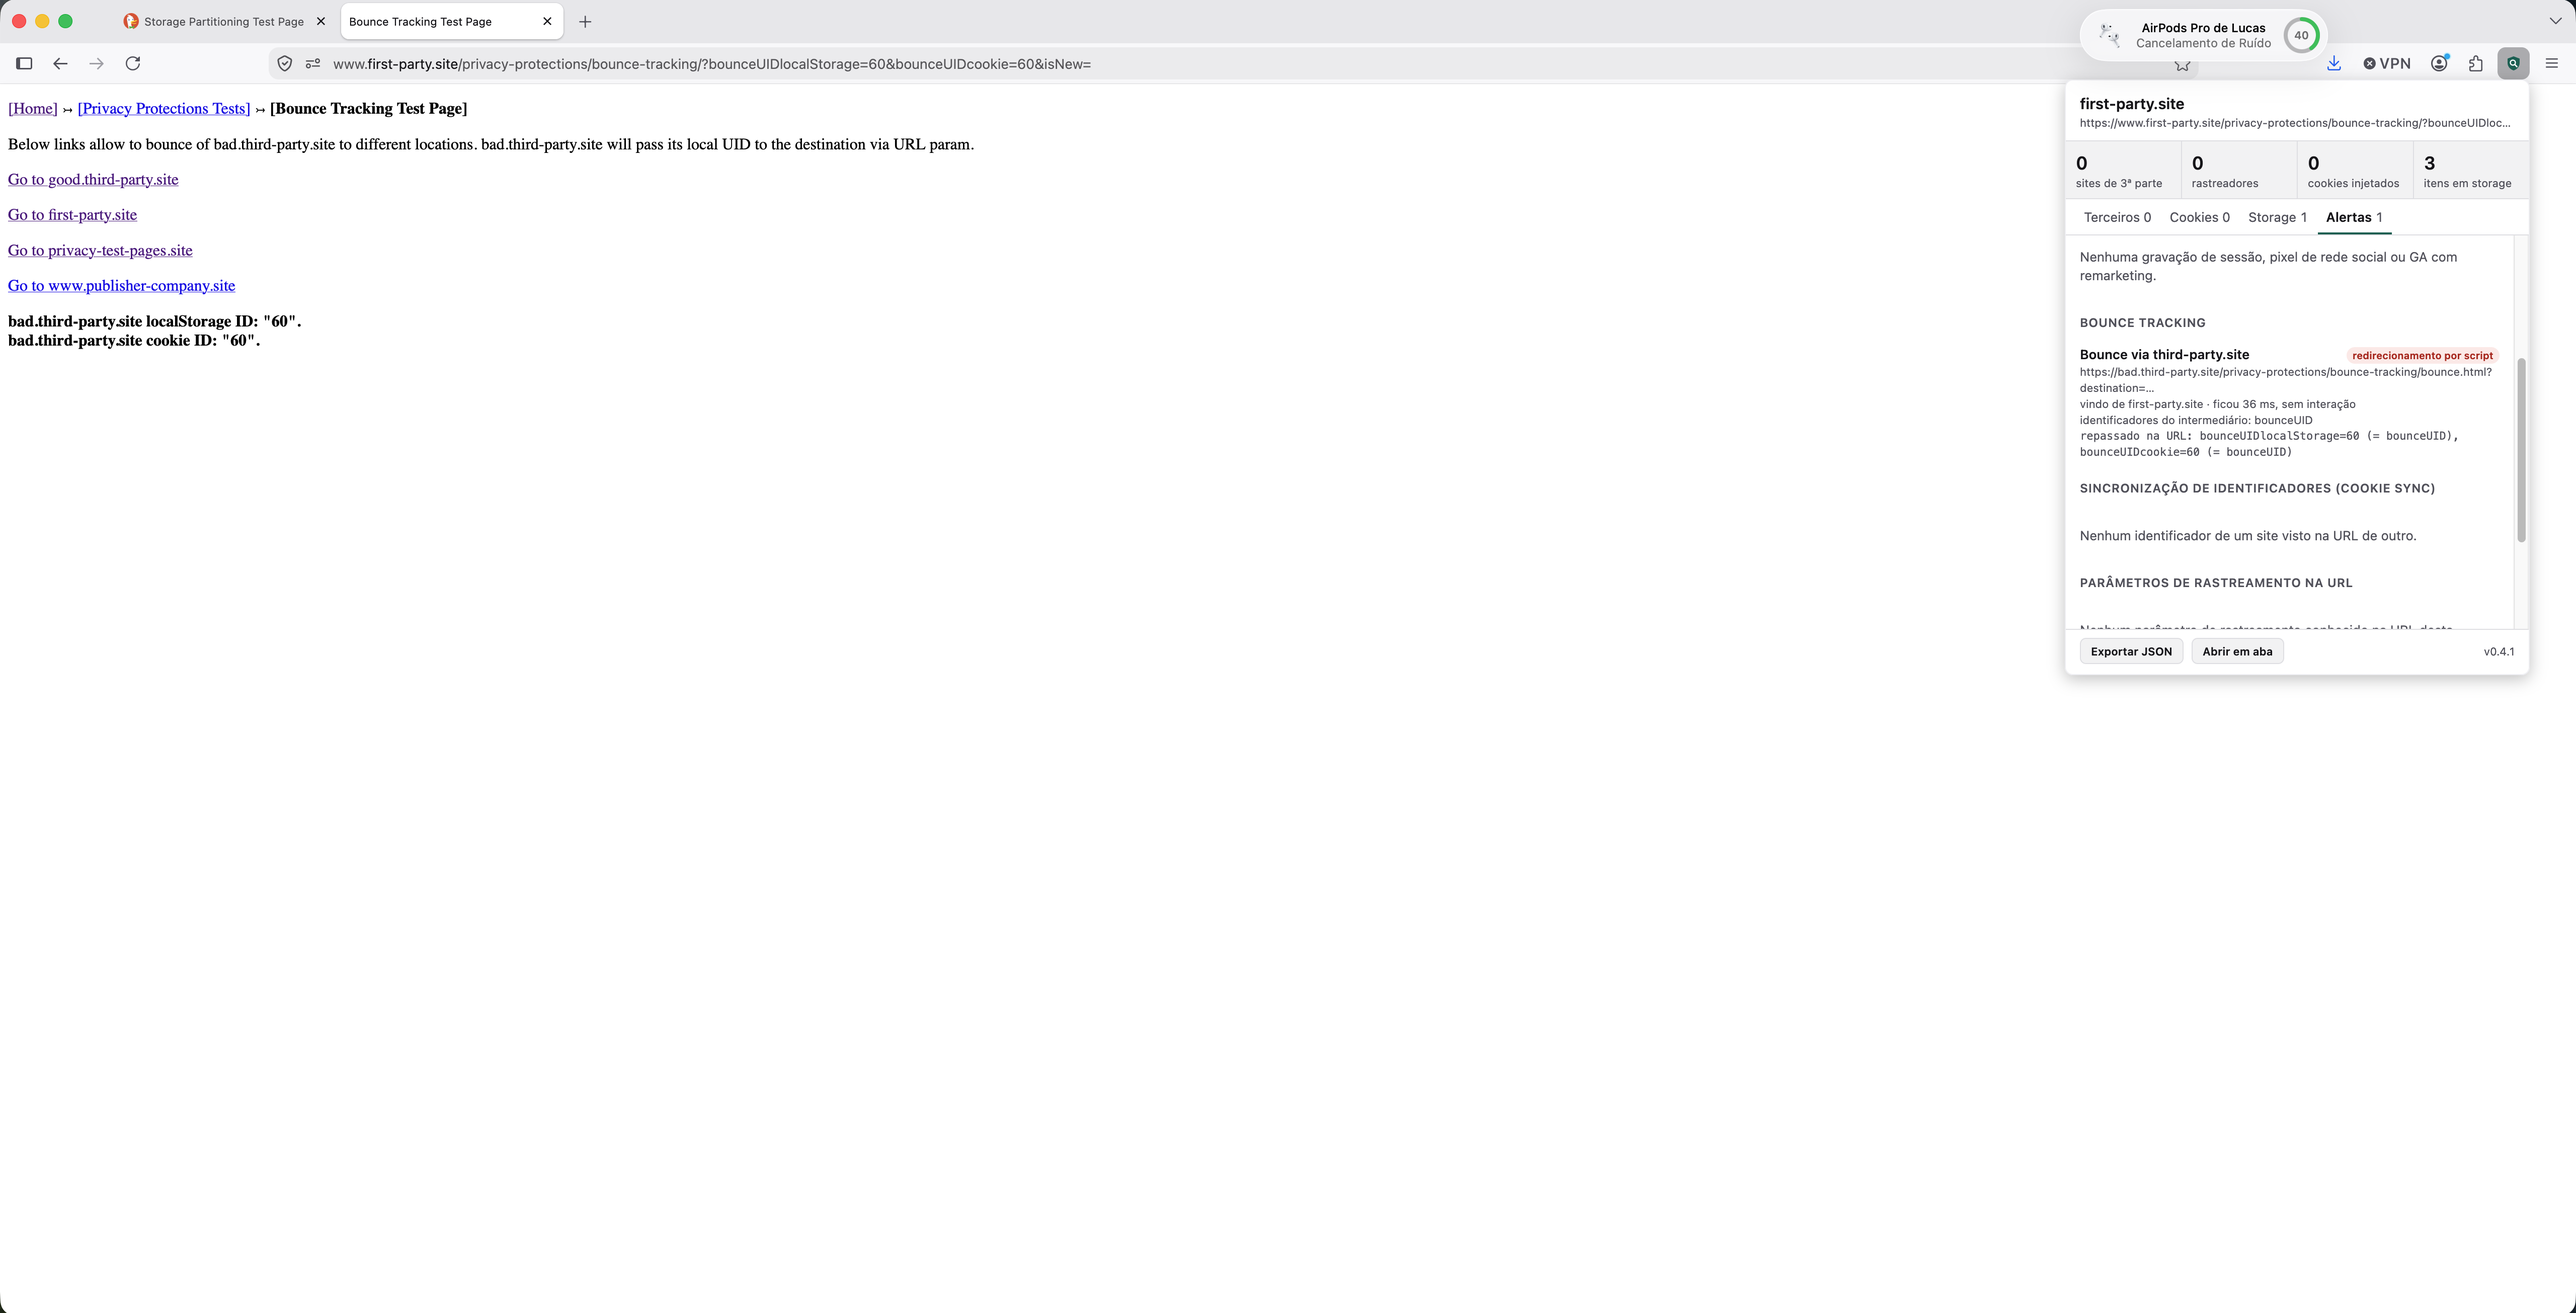
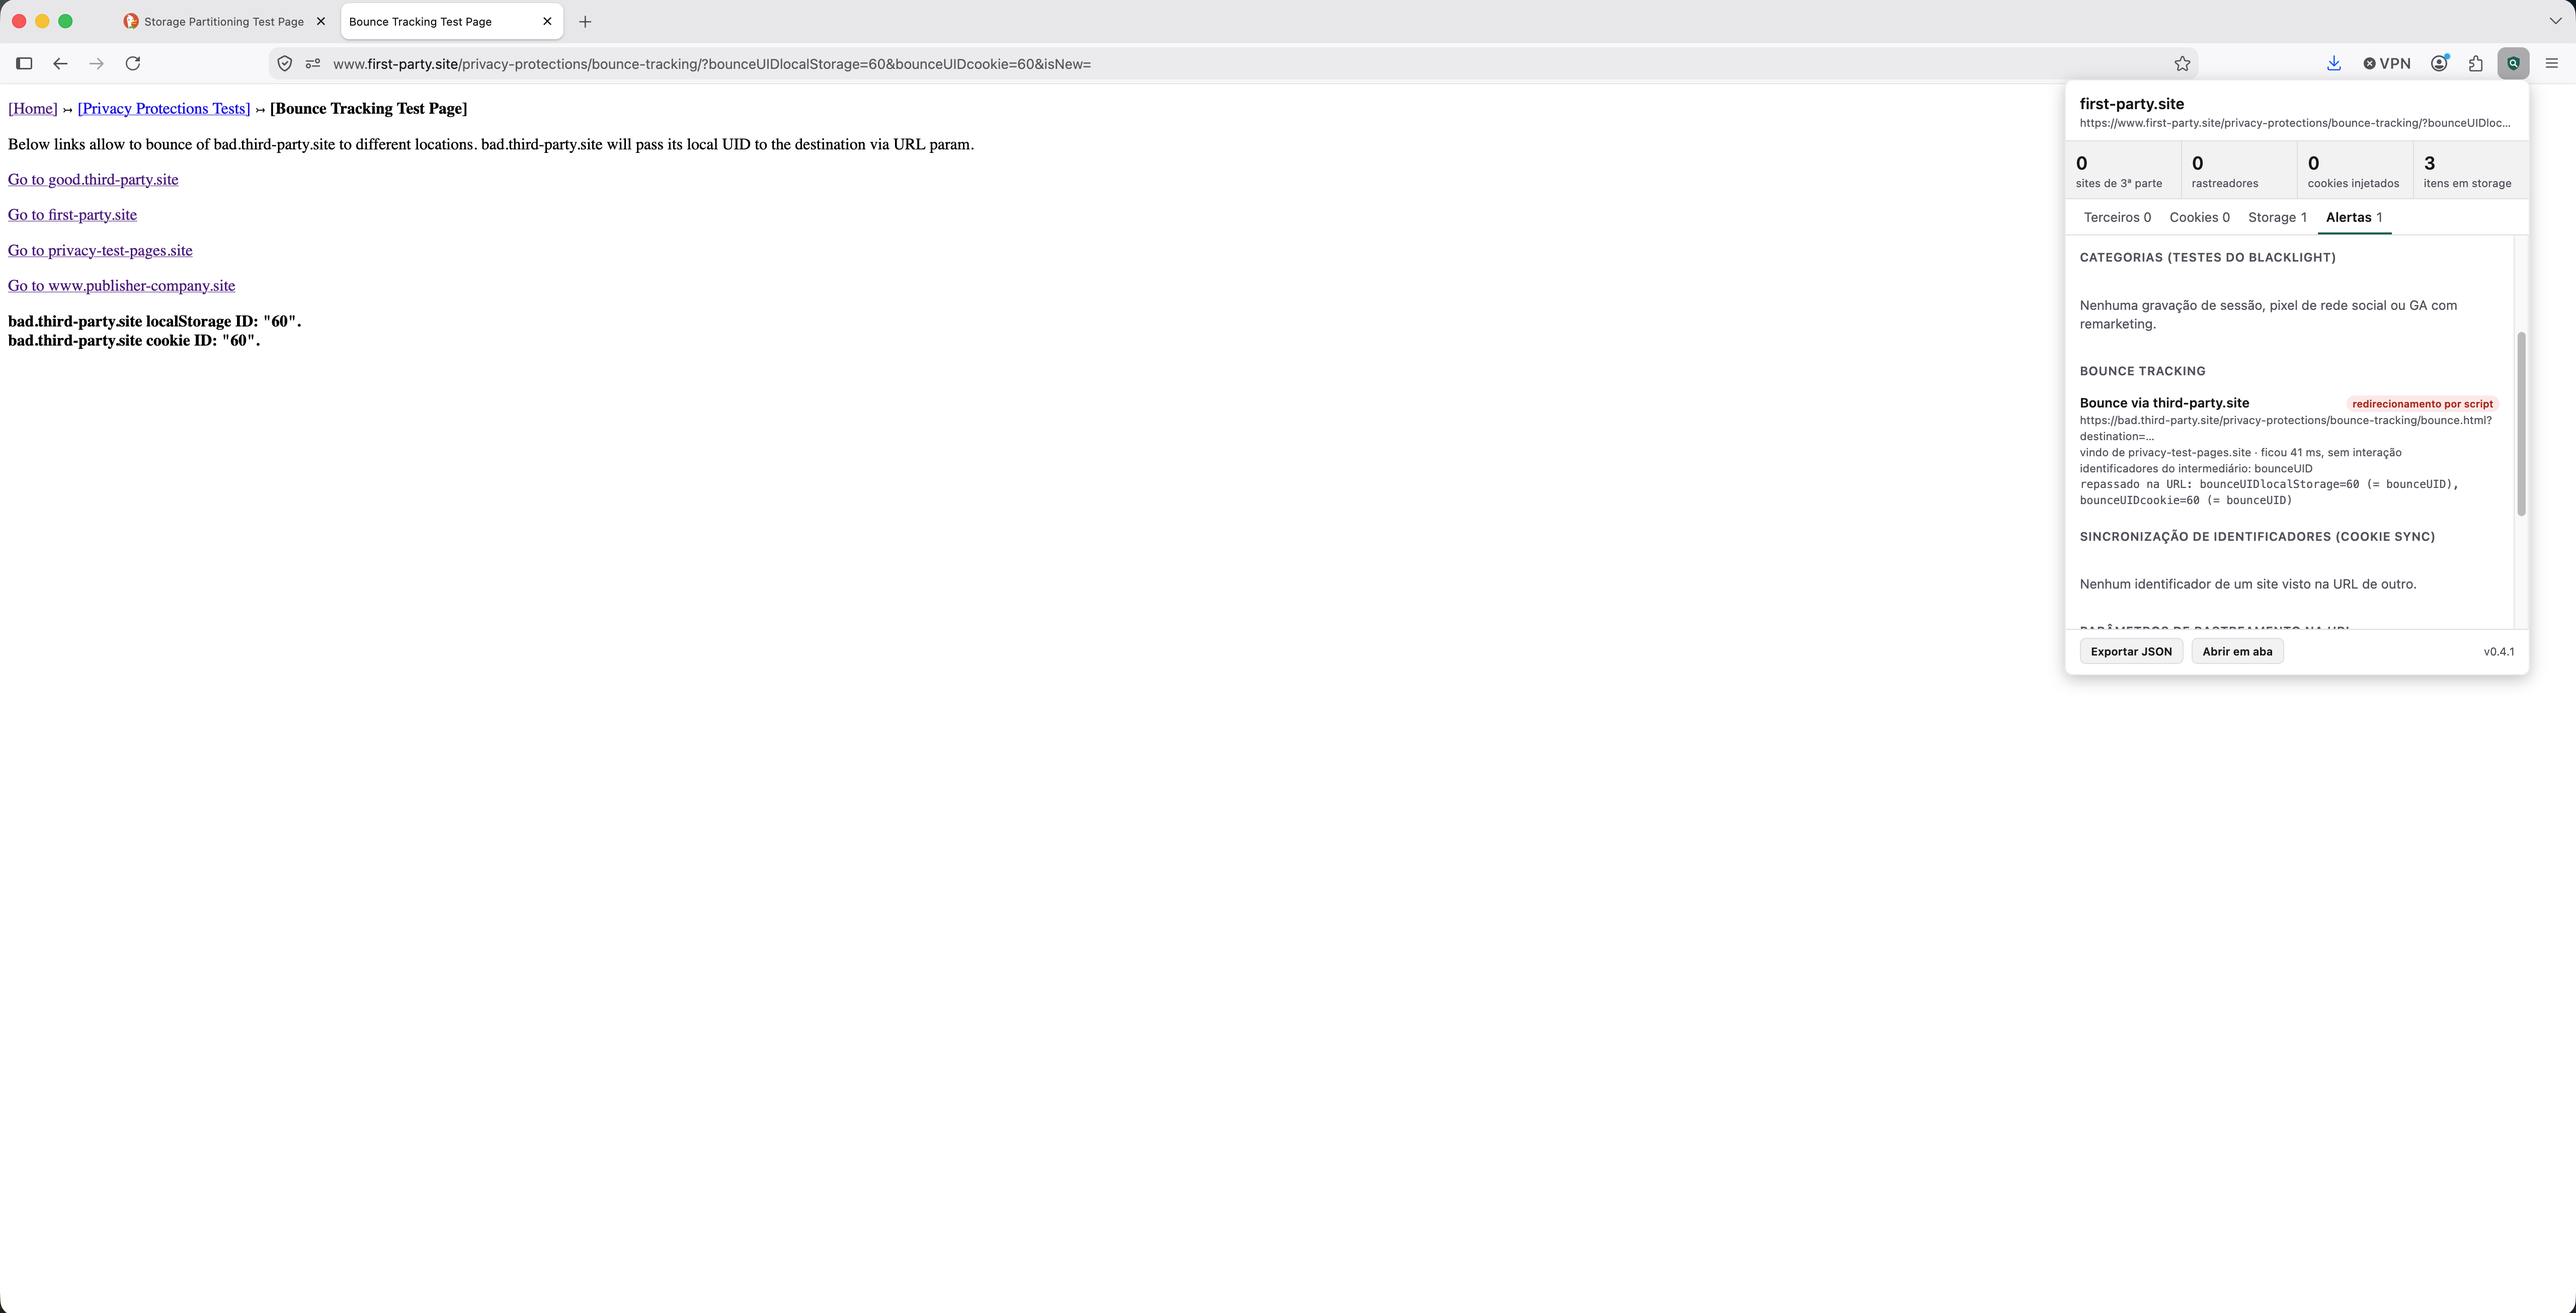
evidence: print do bounce para first-party.site sem notificação do sistema
Novo print (22:24), partindo de privacy-test-pages.site; as notas registram
que o JSON é da visita das 22:08 e que as duas mostram o mesmo bounce e UID.

Changed region(s): [[0.8125, 0.1862, 0.9688, 0.4655], [0.875, 0.0, 0.9062, 0.031]]

diff --git a/evidencias/ddg/bounce-tracking/notas.md b/evidencias/ddg/bounce-tracking/notas.md
@@ -3,7 +3,7 @@
 | Destino | Bounce detectado | Vindo de | Permanência no intermediário | Repassado na URL |
 |---|---|---|---|---|
 | `good.third-party.site` | não (mesmo site do rastreador, `third-party.site`) | — | — | — |
-| `www.first-party.site` | sim, por script, via `third-party.site` | `first-party.site` | 36 ms, sem interação | `bounceUIDlocalStorage=60`, `bounceUIDcookie=60` (= cookie `bounceUID`) |
+| `www.first-party.site` | sim, por script, via `third-party.site` | `first-party.site` (JSON, 22:08) / `privacy-test-pages.site` (print, 22:24) | 36 ms (JSON) / 41 ms (print), sem interação | `bounceUIDlocalStorage=60`, `bounceUIDcookie=60` (= cookie `bounceUID`) |
 | `privacy-test-pages.site` | sim, por script, via `third-party.site` | `first-party.site` | 63 ms, sem interação | idem |
 | `www.publisher-company.site` | sim, por script, via `third-party.site` | `privacy-test-pages.site` | 93 ms, sem interação | idem |
 
@@ -16,3 +16,8 @@ coletas o clique partiu de uma delas. O teste automatizado
 
 O UID já existia (`isNew` vazio): foi gerado numa passagem anterior e reconhecido
 pelo cabeçalho `Cookie` enviado a `bad.third-party.site`.
+
+O print `first-party.png` foi refeito às 22:24 (o anterior tinha uma notificação do
+sistema sobreposta), partindo da página de teste em `privacy-test-pages.site`; o
+`first-party.json` é da visita das 22:08. As duas visitas mostram o mesmo bounce e o
+mesmo UID repassado.
